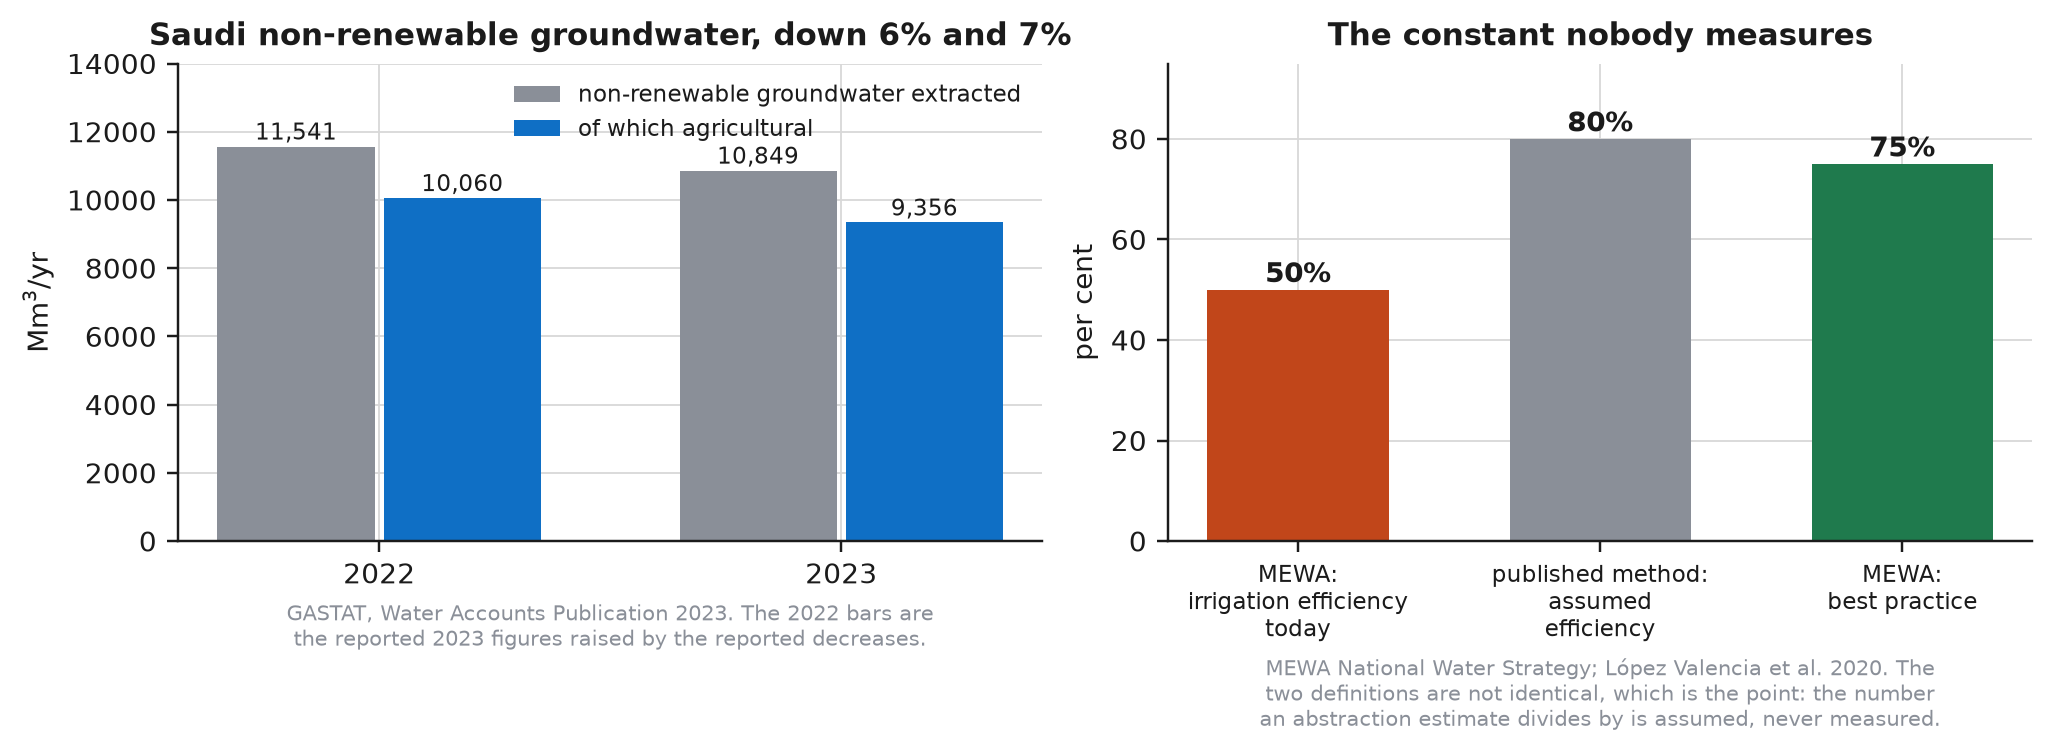
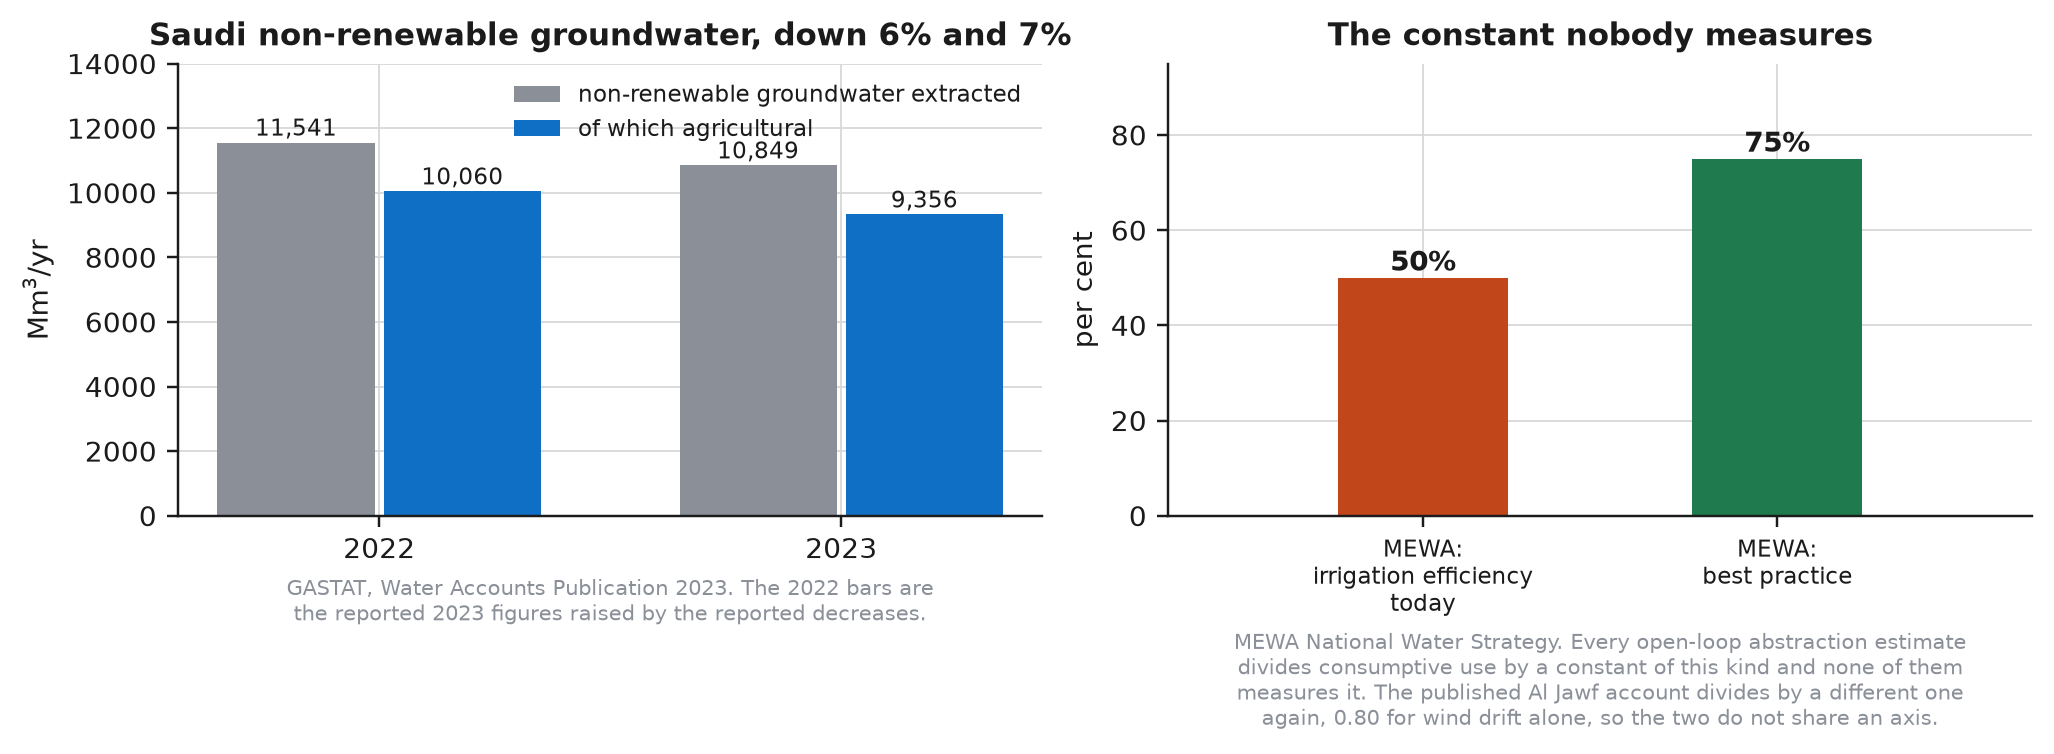
Attribute the frontier rate to the test basin, and put the efficiency figure on a single definition

diff --git a/scripts/05_figures.py b/scripts/05_figures.py
@@ -452,25 +452,30 @@ def fig_context():
                      "the reported 2023 figures raised by the reported decreases.",
                      fontsize=6.9, color=FG.MUTED)
 
-    # MEWA, National Water Strategy: irrigation efficiency today against best practice,
-    # and the constant the published open-loop method assumes instead.
+    # MEWA, National Water Strategy: irrigation efficiency today against best practice.
+    # Both bars are the same quantity from the same source, beneficial use over water
+    # withdrawn. The 0.80 the published Al Jawf account divides by is deliberately not
+    # drawn beside them: it is a wind drift and spray evaporation loss at the pivot, a
+    # different quantity over different water, and putting the two on one percent axis
+    # would assert a comparison neither source supports.
     names = ["MEWA:\nirrigation efficiency\ntoday",
-             "published method:\nassumed\nefficiency",
              "MEWA:\nbest practice"]
-    vals = [50, 80, 75]
-    cols = [FG.WARM, FG.MUTED, FG.GREEN]
-    ax[1].bar(range(3), vals, color=cols, width=0.6)
+    vals = [50, 75]
+    cols = [FG.WARM, FG.GREEN]
+    ax[1].bar(range(2), vals, color=cols, width=0.48)
     for i, v in enumerate(vals):
         ax[1].text(i, v + 1.5, f"{v}%", ha="center", fontsize=9, weight="bold")
-    ax[1].set_xticks(range(3))
+    ax[1].set_xticks(range(2))
     ax[1].set_xticklabels(names, fontsize=7.4)
+    ax[1].set_xlim(-0.72, 1.72)
     ax[1].set_ylim(0, 95)
     ax[1].set_ylabel("per cent")
     ax[1].set_title("The constant nobody measures")
     FG.despine(ax[1])
-    ax[1].set_xlabel("MEWA National Water Strategy; López Valencia et al. 2020. The\n"
-                     "two definitions are not identical, which is the point: the number\n"
-                     "an abstraction estimate divides by is assumed, never measured.",
+    ax[1].set_xlabel("MEWA National Water Strategy. Every open-loop abstraction estimate\n"
+                     "divides consumptive use by a constant of this kind and none of them\n"
+                     "measures it. The published Al Jawf account divides by a different one\n"
+                     "again, 0.80 for wind drift alone, so the two do not share an axis.",
                      fontsize=6.9, color=FG.MUTED)
 
     fig.tight_layout()

diff --git a/scripts/07_report.py b/scripts/07_report.py
@@ -201,7 +201,10 @@ def main():
               f"km3 over the horizon avoids "
               f"{al['frontier'][0]['mean_mcm']-al['frontier'][-1]['mean_mcm']:.0f} Mm3 of "
               f"permanent capacity loss: "
-              f"**{al['marginal_capacity_per_km3']:.0f} Mm3 of capacity per km3 not taken.**")
+              f"**{al['marginal_capacity_per_km3']:.0f} Mm3 of capacity per km3 not "
+              f"taken, in the test basin.** That rate is a simulated output of this "
+              f"basin and not an estimate for any real aquifer; what transfers is the "
+              f"frontier as an instrument.")
         print("\nEvery frontier value above is evaluated directly in full MODFLOW across "
               "the posterior. Experimental spatial-allocation diagnostics are retained "
               "in `results/allocation.json` and are not submission results.")
@@ -609,7 +612,9 @@ def main():
               f"at {tc:,.0f} mm/yr it is "
               f"{tc / al['reference_et_mm_yr'][yr] * 100:.0f} per cent of the reference, "
               f"because it carries no irrigation term, so it does not disagree about the "
-              f"agriculture, it cannot see it. At an efficiency of 0.80 the {yr} spread "
+              f"agriculture, it cannot see it. Converted at a single constant of 0.80, "
+              f"which rescales every account together and so leaves the spread "
+              f"between them unchanged, the {yr} spread "
               f"is {min(al_abs.values()):,.0f} to {max(al_abs.values()):,.0f} Mm3/yr against a "
               f"published {pub['abstraction_mcm']:,.0f}.")
 

diff --git a/RESULTS.md b/RESULTS.md
@@ -134,7 +134,7 @@ Permanent loss already taken over the record: 3037 Mm3.
 | 16.78 | 40% | 2428 | 2289 | 2583 |
 | 13.98 | 50% | 2017 | 1901 | 2146 |
 
-Cutting delivery by 13.98 km3 over the horizon avoids 2058 Mm3 of permanent capacity loss: **147 Mm3 of capacity per km3 not taken.**
+Cutting delivery by 13.98 km3 over the horizon avoids 2058 Mm3 of permanent capacity loss: **147 Mm3 of capacity per km3 not taken, in the test basin.** That rate is a simulated output of this basin and not an estimate for any real aquifer; what transfers is the frontier as an instrument.
 
 Every frontier value above is evaluated directly in full MODFLOW across the posterior. Experimental spatial-allocation diagnostics are retained in `results/allocation.json` and are not submission results.
 
@@ -313,7 +313,7 @@ Centre pivots delineated from the annual maximum MODIS NDVI above 0.40: **2,541 
 | WaPOR v3, 326 m | not published | 401 | 431 |
 | **reference evapotranspiration, climatic benchmark** | **2,025** | **2,091** | **2,125** |
 
-The three retrievals that publish a value for 2015 span a factor of **3.4**, and across the three years measured the spread runs 3.3 to 3.9. TerraClimate is left out of that range on purpose: at 38 mm/yr it is 2 per cent of the reference, because it carries no irrigation term, so it does not disagree about the agriculture, it cannot see it. At an efficiency of 0.80 the 2015 spread is 1,976 to 6,699 Mm3/yr against a published 5,500.
+The three retrievals that publish a value for 2015 span a factor of **3.4**, and across the three years measured the spread runs 3.3 to 3.9. TerraClimate is left out of that range on purpose: at 38 mm/yr it is 2 per cent of the reference, because it carries no irrigation term, so it does not disagree about the agriculture, it cannot see it. Converted at a single constant of 0.80, which rescales every account together and so leaves the spread between them unchanged, the 2015 spread is 1,976 to 6,699 Mm3/yr against a published 5,500.
 
 **The gravimetric leg needs a control and has never had one.** The Saq footprint falls at -10.93 cm/decade over 238 months. The same trend over deserts with no irrigation:
 
